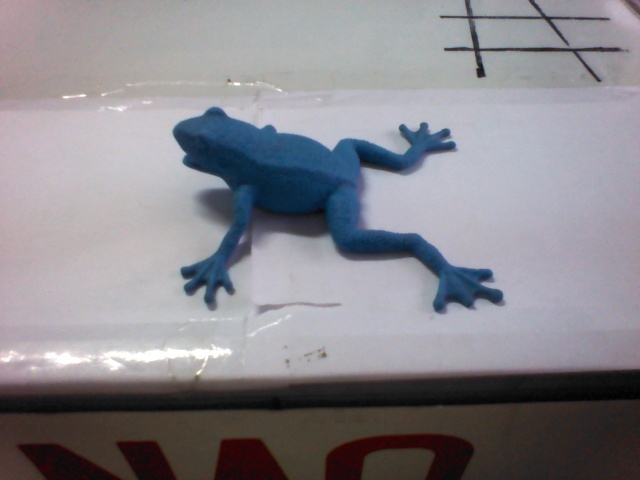
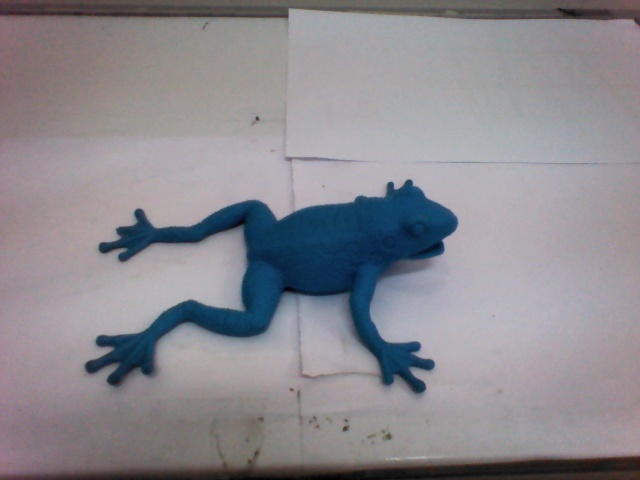
There are problems with the grabbing point calculation

diff --git a/main.py b/main.py
@@ -370,7 +370,7 @@ class Fsm():
             if repeat == "all":
                 self.search()
             elif repeat == "grabbing":
-                self.Nao_object = 'Cup'
+                self.Nao_object = 'Frog'
                 self.process()
             elif repeat == "tracking":
                 self.track()
@@ -403,7 +403,7 @@ class Fsm():
         look_dir = ["close", "far", "right", "left"]
 
         # searching for object with one second sleep because of head movement
-        for i in range(0, 5):
+        for i in range(0, 4):
             self.gestureProxy.stopFocus()
             self.head_pitch = head_pitch_list[i]
             self.head_yaw = head_yaw_list[i]
@@ -517,13 +517,15 @@ class Fsm():
         d_ver = 0.0
         stsel = 0
 
-        self.camera.getImage(11) #change to string if problems occur
+        self.camera.getImage(kBGRColorSpace) #change to string if problems occur
         cv2.imwrite('camera.png',self.camera.image)
-
+        #cv2.imshow("Camera", self.camera.image)
+        #cv2.waitKey(0)
         # calculating grabbing point with image processing
         # NOTE - this part was developed before which is why there is no detailed description of image processing
         # algorithm and it's scripts
         temp = self.identifyGrabPoint()
+        print("Temp %s" % temp)
         if temp == None:
             manual_break = 1
             return None
@@ -647,7 +649,10 @@ class Fsm():
             self.behaviour = self.Nao_object.lower() + str(self.grab_direction)
         print(self.behaviour)
 
-        self.behaveproxy.runBehavior(self.behaviour)
+        #self.behaveproxy.runBehavior(self.behaviour)
+        print("PERFORMING GESTURES")
+        time.sleep(1.0)
+        print("PERFORMING GESTURES")
         if self.behaviour == 'frog' + str(self.grab_direction):
             self.behaviour = 'frog'
         self.Gesture_robot = self.Nao_object
@@ -701,10 +706,16 @@ class Fsm():
         imageTmp=cv2.cvtColor(imageTmp,cv2.cv.CV_RGB2HSV)
         satImg = cv2.split(imageTmp)[1]
         hueImg = cv2.split(imageTmp)[0]/180.0
+        cv2.imshow("SatImg", satImg)
+        cv2.imshow("HueImg", hueImg)
+        cv2.waitKey(0)
+        cv2.destroyWindow("SatImg")
+        cv2.destroyWindow("HueImg")
         #retval, binaryImage = cv2.threshold(satImg, 150, 255, cv2.THRESH_BINARY)#+cv2.THRESH_OTSU)
         binaryImage = NaoImageProcessing.histThresh(self.camera.image, self.objectColor, self.diagnostic)
-        cv2.imwrite('satmask.png',satImg)
+        #cv2.imwrite('satmask.png',satImg)
         cv2.imwrite('object_segmented.png',binaryImage)
+
         if cv2.countNonZero(binaryImage) < 1000:
             print('No object segmented')
             return None
@@ -862,5 +873,5 @@ if __name__ == '__main__':
         nao.start()
     finally:
         pr.disable()
-        pr.print_stats(sort='time')
+        #pr.print_stats(sort='time')
         nao.shutdown()

diff --git a/NaoImageProcessing.py b/NaoImageProcessing.py
@@ -70,6 +70,10 @@ def histThresh(image, seedcolor, diagnostic):
     sMask=image[:,:,1]>saturationCutoff
     vMask=image[:,:,2]>valueCutoff
 
+    cv2.imwrite('satmask.png',sMask*255.0)
+    cv2.imwrite('valmask.png',vMask*255.0)
+    print("Saved ----------------- SAVED ---------------- SAVED !!!!! %%%%%")
+
     hueHistOrig=hueHist
     hueHist2=medfilt(np.array(hueHist),3)
 
@@ -103,7 +107,7 @@ def histThresh(image, seedcolor, diagnostic):
             meanAccumulator+=j*hueHist[j]
             numel+=hueHist[j]
         nPx+=[numel]
-        modalityMeans+=[1.0*meanAccumulator/numel]
+        modalityMeans+=[1.0*meanAccumulator/(numel)]
         meanAccumulator = 0
         numel = 0
 
@@ -113,7 +117,7 @@ def histThresh(image, seedcolor, diagnostic):
         else:
             meanAccumulator+=j*hueHist[j]
         numel+=hueHist[j]
-    tmeans=1.0*meanAccumulator/numel
+    tmeans=1.0*meanAccumulator/(numel)
     nPx+=[numel]
     if (tmeans<0):
         tmeans = bins+tmeans
@@ -169,6 +173,7 @@ def histThresh(image, seedcolor, diagnostic):
         cv2.imwrite('satmask.png',sMask*255.0)
         cv2.imwrite('valmask.png',vMask*255.0)
         cv2.imwrite('huemask.png',hMask*255.0)
+        print("Saved ----------------- SAVED ---------------- SAVED !!!!! %%%%%")
 
     dest=cv2.dilate(dest*1.0,np.ones((10,10)))
     dest=cv2.erode(dest*1.0,np.ones((10,10)))

diff --git a/Old version/takeObjectPicture.py b/Old version/takeObjectPicture.py
@@ -70,7 +70,7 @@ if __name__ == '__main__':
     motionproxy.setAngles('HeadYaw',0,0.5)
     time.sleep(0.5)
 
-    os.system('sshpass -p "nao" scp -r /home/frano/devel/code/git/nao-imitation-fsm/Image\ sets/' + objectName + '/ nao@' + IP + ':/home/nao/ImageSets/')
+    #os.system('sshpass -p "nao" scp -r /home/frano/devel/code/git/nao-imitation-fsm/Image\ sets/' + objectName + '/ nao@' + IP + ':/home/nao/ImageSets/')
     print('done')
 
     myBroker.shutdown()
